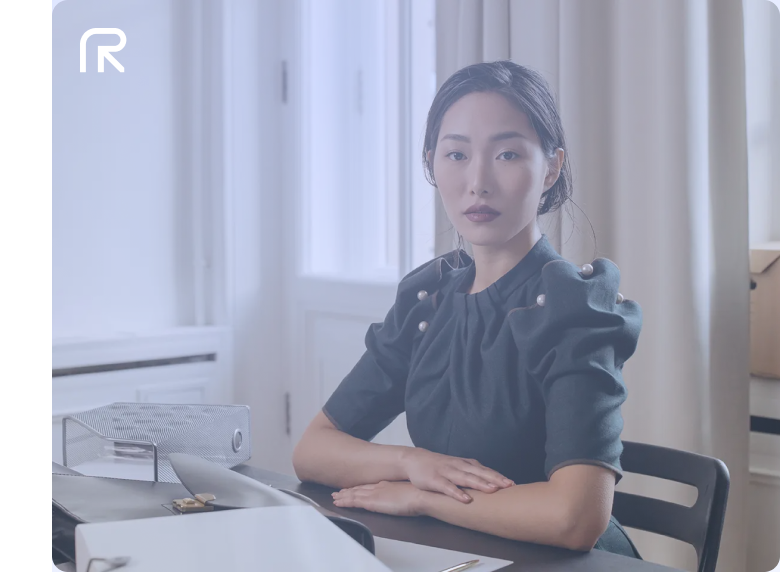
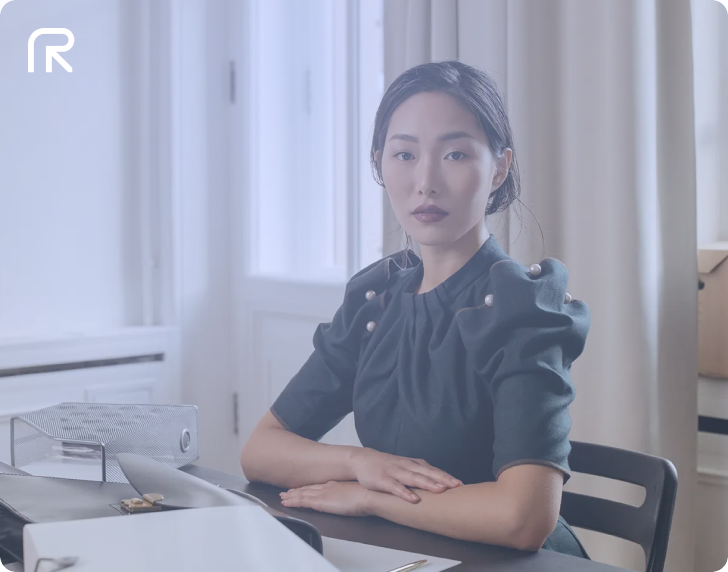
allBlogs page for mobile done

diff --git a/src/components/Blogs/Home/Banner/index.jsx b/src/components/Blogs/Home/Banner/index.jsx
@@ -7,18 +7,18 @@ import AuthorBox from './AuthorBox'
 
 function Banner() {
   return (
-    <div className="!font-secondary flex align-center justify-between gap-4 md:gap-0 bg-white rounded-2xl shadow-[0px_0px_12px_2px_#094BF626] mt-3">
-      <div className="ps-5 md:ps-10 flex flex-col gap-4 items-start justify-center">
+    <div className="!font-secondary flex align-center justify-between flex-col-reverse sm:flex-row gap-4 md:gap-0 bg-white rounded-2xl  sm:shadow-[0px_0px_12px_2px_#094BF626] mt-3">
+      <div className="  py-5 md:py-4  sm:px-5 md:px-10 flex flex-col gap-4 sm:gap-3 md:gap-4 items-start justify-center">
         <ArticleStatistics />
         <TitleBox />
-        <p className="text-[16px] text-[#667085] font-400] max-w-[440px]">
+        <p className="text-[14px] md:text-[16px] text-[#667085] font-[400] max-w-[300px] sm:max-w-[440px] leading-[24.8px] sm:leading-[16.8px] md:leading-[19.2px]">
           How do you create compelling presentations that wow your colleagues
           and impress your managers?
         </p>
         <AuthorBox />
       </div>
       <div>
-        <Image src={StaticImage} alt="banner" />
+        <Image src={StaticImage} alt="banner" className="h-full" />
       </div>
     </div>
   )

diff --git a/src/components/Blogs/Home/Banner/ArticleStatistics.jsx b/src/components/Blogs/Home/Banner/ArticleStatistics.jsx
@@ -2,12 +2,14 @@ import React from 'react'
 
 function ArticleStatistics() {
   return (
-    <div className="flex items-center gap-2 border border-[#D0D5DD] py-[4px] ps-[8px] pe-[10px] rounded-[12px]">
+    <div className="flex items-center gap-2 border border-[#D0D5DD] py-[2px] sm:py-[4px] ps-[3px] sm:ps-[8px] pe-[8px] sm:pe-[10px] rounded-[12px] font-secondary">
       <div className="flex items-center gap-1 border border-[#D0D5DD] p-[2px_8px] rounded-lg shadow-[0px_1px_2px_0px_#1018280D]">
         <div className="bg-[#2957FF] border-[3px] border-[#EFF2FF] rounded-full w-[10px] h-[10px] shadow-[0px_1px_2px_0px_#1018280D]"></div>
-        <p className="text-[13px] font-[400] text-[#475467]">Products</p>
+        <p className="text-[12px] sm:text-[13px] font-[400] text-[#475467]">
+          Products
+        </p>
       </div>
-      <p className="text-[13px] font-[400] text-[#475467] whitespace-nowrap">
+      <p className="text-[12px] sm:text-[13px] font-[400] text-[#475467] whitespace-nowrap">
         8 Min Read
       </p>
     </div>

diff --git a/src/components/Blogs/Home/Banner/AuthorBox.jsx b/src/components/Blogs/Home/Banner/AuthorBox.jsx
@@ -27,13 +27,20 @@ function AuthorBox() {
         anchorOrigin={{ vertical: 'bottom', horizontal: 'right' }}
         variant="dot"
       >
-        <Avatar alt="Remy Sharp" src="/static/images/avatar/1.jpg" />
+        <Avatar
+          alt="Phoenix Baker"
+          src="/static/images/avatar/1.jpg"
+          sx={{
+            width: { xs: '35px', md: '40px' },
+            height: { xs: '35px', md: '40px' },
+          }}
+        />
       </StyledBadge>
       <div className="flex flex-col">
-        <p className="text-[#101828] text-[16px] font-[600] leading-[20px]">
+        <p className="text-[#101828] text-[14px] md:text-[16px] font-[600] leading-[16.2px] md:leading-[20px]">
           Phoenix Baker
         </p>
-        <p className="text-[#475467] text-[14px] font-[400] leading-[20.6px]">
+        <p className="text-[#475467] text-[12px] md:text-[14px] font-[400] leading-[16.2px] md:leading-[20.6px]">
           Product Manager
         </p>
       </div>

diff --git a/src/components/Blogs/Home/Banner/TitleBox.jsx b/src/components/Blogs/Home/Banner/TitleBox.jsx
@@ -6,10 +6,16 @@ function TitleBox() {
   return (
     <Link href="/blogs/1">
       <div className="flex justify-between items-start max-w-[400px] !font-secondary">
-        <h2 className="text-[#101828] text-[28px] md:text-[48px] font-[500] leading-[48px]">
+        <h2 className="text-[#101828] text-[32px] sm:text-[20px] md:text-[28px] lg:text-[40px] xl:text-[48px] font-[600] sm:font-[500] leading-[38px] sm:leading-[20px] md:leading-[28px] lg:leading-[40px] xl:leading-[48px]">
           UX review presentaions
         </h2>
-        <ArrowOutwardRoundedIcon sx={{ width: '24px', height: '24px' }} />
+        <ArrowOutwardRoundedIcon
+          sx={{
+            width: '24px',
+            height: '24px',
+            display: { xs: 'none', sm: 'block' },
+          }}
+        />
       </div>
     </Link>
   )

diff --git a/pages/blogs/index.js b/pages/blogs/index.js
@@ -6,8 +6,8 @@ import AllBlogs from '../../src/components/Blogs/Home/BlogList/AllBlogs'
 export default function Blogs() {
   return (
     <Layout isRaw>
-      <div className="w-full font-primary">
-        <main className="relative flex flex-col gap-[80px] pt-5 px-[6%] mx-auto mb-[30vh]">
+      <div className="w-full font-primary bg-white sm:bg-transparent">
+        <main className="relative flex flex-col gap-[32px] sm:gap-[80px] pt-5 px-[4%] sm:px-[6%] mx-auto pb-[10vh] sm:pb-[20vh] lg:pb-[30vh]">
           <Banner />
           <AllBlogs />
         </main>

diff --git a/src/components/Blogs/Home/BlogList/AllBlogs.jsx b/src/components/Blogs/Home/BlogList/AllBlogs.jsx
@@ -7,7 +7,7 @@ function AllBlogs() {
 
   return (
     <div className="flex flex-col gap-3 w-full">
-      <h3 className="text-[#101828] text-[28px] md:text-[40px] font-[500]">
+      <h3 className="text-[#101828] text-[28px] md:text-[40px] font-[500] hidden sm:block">
         LyRise Blogs
       </h3>
       <div className="flex flex-col gap-8">
